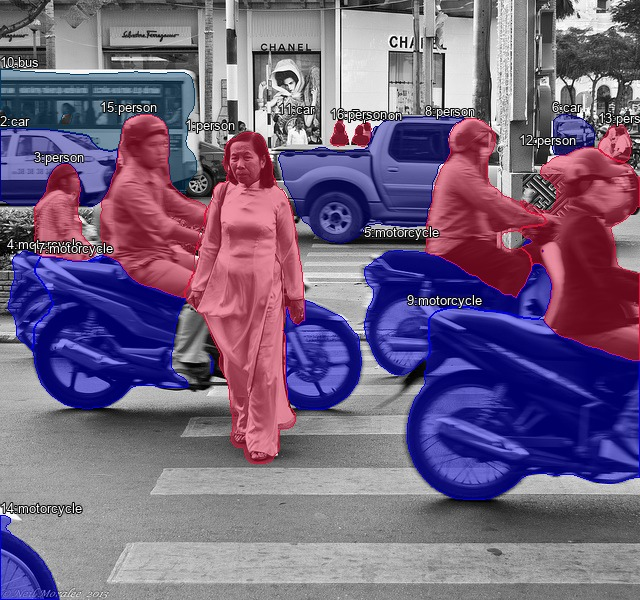
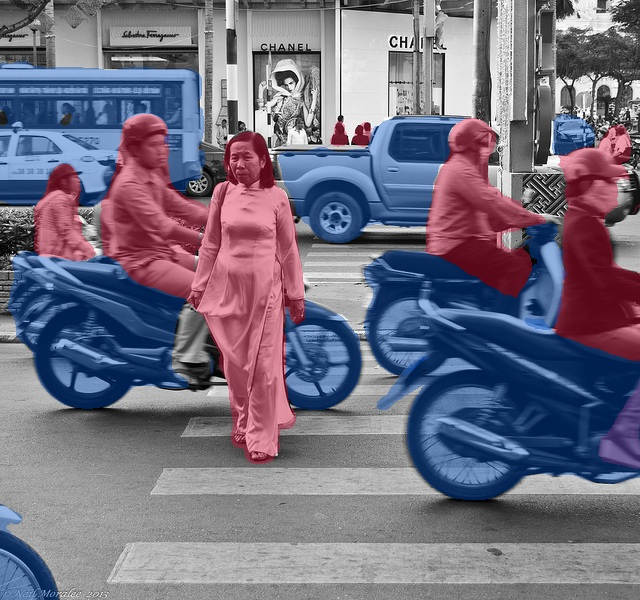
Rework Medium masks and record before-after reference evaluation

diff --git a/report/individual/2A202603132_TranXuanBac.md b/report/individual/2A202603132_TranXuanBac.md
@@ -5,7 +5,7 @@
 - Phần tự vẽ: tôi vẽ tay ở hai task **Easy và Medium** trên CVAT. Object person đầu tiên của Medium được tự vẽ trước khi đưa gợi ý vào task.
 - Công cụ: CVAT, Python, Mask2Former và Codex. Trong vòng hoàn thiện sau đó, công cụ hỗ trợ tạo gợi ý, bổ sung và sửa mask, rà ảnh và kiểm tra export; phần hỗ trợ này được phân biệt với phần tôi tự vẽ tay.
 - Tự kiểm: sau vòng hỗ trợ, tôi đã tự rà toàn bộ 14 ảnh, sửa các điểm cần điều chỉnh và kiểm chứng lại kết quả.
-- Nguồn mô hình gợi ý: [facebook/mask2former-swin-tiny-coco-panoptic](https://huggingface.co/facebook/mask2former-swin-tiny-coco-panoptic). Không dùng reference để tạo hoặc sửa mask. Đã dùng gói ground truth coach phát để chấm lần đầu ngày **12/11/2026**, sau khi lưu bản nhãn trên GitHub.
+- Nguồn mô hình gợi ý: [facebook/mask2former-swin-tiny-coco-panoptic](https://huggingface.co/facebook/mask2former-swin-tiny-coco-panoptic). Bản nhãn ban đầu được tạo trước khi xem reference. Vòng rework Medium sau đó có dùng reference để xác định lỗi, rồi sửa theo ảnh gốc với hỗ trợ của Codex. Đã dùng gói ground truth coach phát để chấm lần đầu ngày **12/11/2026**, sau khi lưu bản nhãn trên GitHub.
 
 ## 1. Bài đã nộp
 
@@ -66,7 +66,22 @@ Nhận xét từ chỉ số, cần đối chiếu ảnh khi rework:
 - **Medium:** mean matched IoU **0,735**, recall khoảng **0,61**; TP **43**, FP **13**, FN **28**. Bản nộp có **56** instance, reference có **71**. Các số này cho thấy nhiều vật chưa ghép khớp; cần kiểm cả thiếu vật, sai class và biên, không kết luận mọi FN đều là vật chưa vẽ. [Chi tiết](../../reports/tiers/medium_instance.json)
 - **Hard:** PQ **0,303**, SQ **0,455**, RQ **0,387**. Person, motorcycle, sidewalk, truck và bicycle có PQ bằng 0; cần mở lại đúng ảnh để xác định lỗi class, biên hoặc số instance. [Chi tiết](../../reports/tiers/hard_panoptic.json)
 
-Lần chạy này chỉ chấm bộ ZIP đã lưu, chưa sửa nhãn theo reference và chưa có kết quả sau rework. Gói coach gửi có thư mục `tiers/` kèm ảnh/schema và metadata macOS; đã kiểm tám ảnh khớp dữ liệu bài, giữ nguyên byte của bảy file ground truth và chỉ chuẩn hóa đường dẫn thành `data/tiers/` để cài bằng script có sẵn. Không sửa scorer, schema bài hoặc nội dung ground truth.
+Lần chấm đầu chỉ đánh giá bộ ZIP đã lưu. Kết quả rework sau đó được ghi riêng dưới đây. Gói coach gửi có thư mục `tiers/` kèm ảnh/schema và metadata macOS; đã kiểm tám ảnh khớp dữ liệu bài, giữ nguyên byte của bảy file ground truth và chỉ chuẩn hóa đường dẫn thành `data/tiers/` để cài bằng script có sẵn. Không sửa scorer, schema bài hoặc nội dung ground truth.
+
+**Rework Medium có hỗ trợ ngày 12/11/2026:**
+
+Sau lần tự sửa của học viên đạt 4,9/32, Codex đối chiếu lỗi với reference và chỉnh mask theo ảnh gốc: đổi xe bán tải từ car sang truck, tách nhóm người bị gộp, chỉnh người quàng khăn đỏ, bổ sung người bị che và các người nhỏ phía xa. Đã cập nhật 12 mask, bỏ 1 mask thừa, thêm 9 instance; bản xuất mới có 66 mask. Mask người phụ nữ tự vẽ ở ảnh đen trắng được giữ nguyên. Không sao chép mask reference vào bài nộp và không sửa ground truth hoặc scorer.
+
+| Chỉ số Medium | Trước vòng hỗ trợ này | Sau vòng hỗ trợ này |
+| --- | ---: | ---: |
+| Điểm /32 | 4,9 | 13,0 |
+| TP / FP / FN | 45 / 13 / 26 | 57 / 9 / 14 |
+| Recall@0.5 | 0,634 | 0,803 |
+| Mean matched IoU | 0,741 | 0,726 |
+
+Điểm ba tier hiện tại: **34,1/82** (Easy 14,2; Medium 13,0; Hard 6,9). Đây không phải điểm chính thức /100. Bản trước vòng hỗ trợ: [medium_instance.json](../../reports/tiers/before_medium_rework/medium_instance.json); bản mới: [medium_instance.json](../../reports/tiers/medium_instance.json) và [SCORECARD.md](../../reports/tiers/SCORECARD.md).
+
+ZIP mới đã được kiểm cấu trúc và đối chiếu pixel với mask đã Save trong CVAT. Vẫn còn 14 FN và 9 FP; chưa kết luận hết lỗi. Xác nhận tự QC trước đó thuộc bản trước vòng sửa này; học viên chưa xác nhận đã tự rà lại bản rework mới.
 
 ![CP3: gợi ý ban đầu ở trên, sau sửa ở dưới](assets/day3/cp3_before_after.jpg)
 

diff --git a/README.md b/README.md
@@ -2,7 +2,7 @@
 
 **Bài cá nhân: Trần Xuân Bắc · 2A202603132 · L2A.**
 [Báo cáo Day03](report/individual/2A202603132_TranXuanBac.md) · [9 ZIP CVAT](submissions/) · [Kết quả kiểm export](report/individual/assets/day3/export_verification.json).
-Bộ export có 14 ảnh; checker cấu trúc đạt 9/9. Học viên đã xác nhận tự rà, sửa và kiểm chứng toàn bộ 14 ảnh; các ca cân nhắc và công cụ đã dùng được ghi trong báo cáo. Nộp link repo trên LMS là bước riêng.
+Bộ export có 14 ảnh; checker cấu trúc đạt 9/9. Học viên đã xác nhận tự QC bản trước rework. Medium vừa được sửa có hỗ trợ sau khi đối chiếu reference: 13,0/32, tổng ba tier 34,1/82; bản mới cần học viên rà lại. Chi tiết trước/sau và công cụ đã dùng được ghi trong báo cáo. Nộp link repo trên LMS là bước riêng.
 
 
 

diff --git a/reports/tiers/SCORECARD.md b/reports/tiers/SCORECARD.md
@@ -1,9 +1,9 @@
 # Day-3 Segmentation — Scorecard
 
-**Total: 24.3 / 82**
+**Total: 34.1 / 82**
 
 | Task | Group | Type | Metric | Points |
 | --- | --- | --- | ---: | ---: |
 | easy_semantic | tiers | semantic | 0.720 | 14.2 / 20 |
-| medium_instance | tiers | instance | 0.445 | 3.2 / 32 |
+| medium_instance | tiers | instance | 0.583 | 13.0 / 32 |
 | hard_panoptic | tiers | panoptic | 0.303 | 6.9 / 30 |
